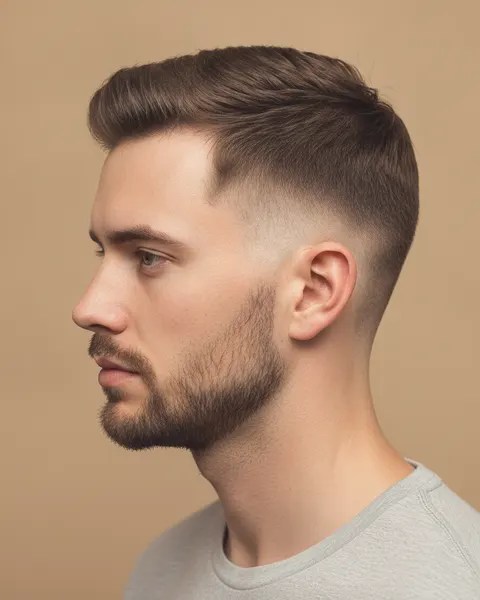
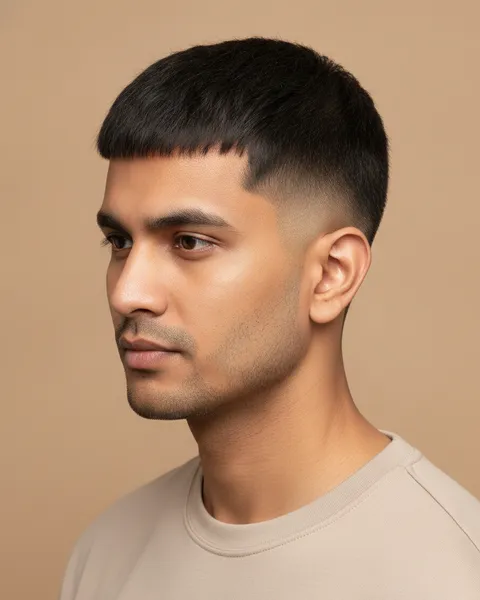
Style cards: diverse people in all 30 photos, 8 new styles for textured hair
Photos remade (AI, fictional people) with a mix of Black, South Asian, East Asian, North African,
Middle Eastern, mixed and white people, men and women; nail photos with a range of skin tones.
New cards (also try-on presets): Fade com caracóis, 360 waves, Twists, Cornrows, Box braids, Locs,
Afro, Silk press.

Claude-Session: https://claude.ai/code/session_01Q6BZR4qgaXW5S444pfo3aL

diff --git a/app/src/lib/styleCatalog.ts b/app/src/lib/styleCatalog.ts
@@ -212,6 +212,63 @@ export const STYLE_CARDS: StyleCard[] = [
       'Aparar o bigode e terminar com óleo e bálsamo.',
     ],
   },
+  {
+    id: 'fade-com-caracois', name: 'Fade com caracóis', types: BARBER, minutes: 45,
+    about: 'Caracóis definidos em cima, com um degradé que desce por trás da orelha (drop fade).',
+    suits: 'Cabelo encaracolado ou crespo que quer manter o volume em cima com as laterais limpas.',
+    upkeep: '2 a 3 semanas',
+    tools: 'Máquina com pentes 0 a 3, máquina de acabamentos, tesoura, pente garfo, creme ou gel para caracóis.',
+    steps: [
+      'Ver o cabelo seco: o caracol encolhe, por isso combinar o comprimento de cima com ele seco.',
+      'Marcar a linha do degradé, que desce por trás da orelha até à nuca.',
+      'Cortar as laterais do pente mais curto para o mais comprido, esbatendo em movimentos curtos.',
+      'Aparar os caracóis de cima à tesoura, caracol a caracol, para manter a forma redonda.',
+      'Fazer o contorno com a máquina de acabamentos.',
+      'Hidratar e definir os caracóis com creme, sem pentear a seco.',
+    ],
+  },
+  {
+    id: '360-waves', name: '360 waves', types: BARBER, minutes: 30,
+    about: 'Cabelo muito curto escovado até formar ondas iguais à volta de toda a cabeça, com contorno marcado.',
+    suits: 'Cabelo crespo, com paciência para escovar todos os dias e usar durag à noite.',
+    upkeep: '2 semanas',
+    tools: 'Máquina com pente 1 ou 1,5, máquina de acabamentos, escova de cerdas duras, pomada para ondas, durag.',
+    steps: [
+      'Combinar o comprimento: curto e igual em toda a cabeça, sempre no sentido do crescimento.',
+      'Cortar com o pente escolhido a favor do pelo, para não estragar o padrão das ondas.',
+      'Fazer o contorno (line-up) na testa, têmporas e nuca.',
+      'Escovar do topo para fora, em todas as direções, com pomada.',
+      'Explicar ao cliente a rotina: escovar todos os dias e dormir com durag.',
+    ],
+  },
+  {
+    id: 'twists', name: 'Twists', types: ['barbearia', 'cabeleireiro'], minutes: 90,
+    about: 'Torcidos de duas mechas em cabelo natural, curtos a médios, muitas vezes com as laterais em degradé.',
+    suits: 'Cabelo crespo com pelo menos 5 cm em cima. Bom passo para quem quer chegar a locs.',
+    upkeep: '2 a 4 semanas',
+    tools: 'Pente de dentes largos, pente de cauda, creme de torcer ou manteiga, molas, máquina para as laterais.',
+    steps: [
+      'Lavar e hidratar o cabelo, desembaraçar com pente de dentes largos.',
+      'Se levar degradé, cortar primeiro as laterais.',
+      'Dividir o topo em secções quadradas do mesmo tamanho.',
+      'Aplicar creme em cada secção, dividir em duas mechas e torcer uma sobre a outra até às pontas.',
+      'Selar as pontas com um pouco de produto e deixar secar sem mexer.',
+    ],
+  },
+  {
+    id: 'cornrows', name: 'Cornrows', types: ['barbearia', 'cabeleireiro'], minutes: 90,
+    about: 'Tranças rentes ao couro cabeludo (tranças nagô), em linhas retas para trás ou com desenho.',
+    suits: 'Cabelo crespo ou encaracolado com pelo menos 5 cm. Prático e dura várias semanas.',
+    upkeep: '2 a 4 semanas',
+    tools: 'Pente de cauda, pente de dentes largos, gel de bordas, creme ou óleo leve, molas, elásticos pequenos.',
+    steps: [
+      'Lavar, hidratar e desembaraçar. Esticar o cabelo com o secador se estiver muito encolhido.',
+      'Desenhar as riscas com o pente de cauda, retas e do mesmo tamanho.',
+      'Trançar cada linha por baixo, apanhando cabelo a cada passagem, rente ao couro.',
+      'Manter a tensão firme mas sem puxar as bordas.',
+      'Prender as pontas e acabar as bordas com gel.',
+    ],
+  },
   // Cabeleireiro -------------------------------------------------------------
   {
     id: 'bob', name: 'Bob', types: HAIR, minutes: 45,
@@ -323,6 +380,62 @@ export const STYLE_CARDS: StyleCard[] = [
       'Respeitar o tempo de pausa.',
       'Emulsionar, enxaguar e aplicar o tratamento pós-cor.',
       'Secar e mostrar o brilho à luz.',
+    ],
+  },
+  {
+    id: 'box-braids', name: 'Box braids', types: HAIR, minutes: 300,
+    about: 'Tranças soltas em secções quadradas, com fibra, compridas e leves.',
+    suits: 'Cabelo crespo ou encaracolado. Protege o cabelo e dá meses sem pentear.',
+    upkeep: '6 a 8 semanas (não mais de 8)',
+    tools: 'Fibra para tranças, pente de cauda, molas, gel de bordas, água quente para selar as pontas.',
+    steps: [
+      'Combinar comprimento, espessura e cor da fibra. Lavar, hidratar e esticar o cabelo.',
+      'Dividir em secções quadradas iguais, da nuca para cima.',
+      'Juntar a fibra na raiz sem apertar e trançar até às pontas.',
+      'Selar as pontas em água quente.',
+      'Acabar as bordas com gel e explicar ao cliente como lavar e dormir com as tranças.',
+    ],
+  },
+  {
+    id: 'locs', name: 'Locs', types: ['cabeleireiro', 'barbearia'], minutes: 120,
+    about: 'Locs (dreadlocks) feitos e mantidos no salão: raízes arrumadas e locs do mesmo tamanho.',
+    suits: 'Cabelo crespo ou encaracolado, para quem quer um estilo de longo prazo.',
+    upkeep: 'Manutenção da raiz a cada 4 a 8 semanas',
+    tools: 'Pente de cauda, gancho ou agulha de crochet, gel ou cera leve para locs, molas, secador de capacete.',
+    steps: [
+      'Lavar com champô sem resíduos e secar bem.',
+      'Separar as secções de cada loc e limpar as divisões.',
+      'Torcer a raiz nova (palm roll) ou apertar com o gancho, conforme o método do cliente.',
+      'Juntar locs finos ou reparar os que estão a abrir.',
+      'Secar por completo debaixo do secador, para não ganhar cheiro.',
+    ],
+  },
+  {
+    id: 'afro', name: 'Afro', types: HAIR, minutes: 60,
+    about: 'Cabelo natural crespo com forma redonda e igual, definido e com volume.',
+    suits: 'Cabelo crespo natural que quer mostrar o volume e a textura.',
+    upkeep: '8 a 12 semanas',
+    tools: 'Tesoura, pente garfo (afro pick), creme sem enxaguar, óleo leve, secador com difusor.',
+    steps: [
+      'Lavar e hidratar, desembaraçar com os dedos e pente de dentes largos.',
+      'Secar com difusor ou esticar ligeiramente para ver o comprimento real.',
+      'Pentear para fora com o pente garfo e cortar em forma redonda, a olhar de frente e de lado.',
+      'Acertar as pontas soltas e igualar os dois lados.',
+      'Definir com creme e dar volume com o pente garfo na raiz.',
+    ],
+  },
+  {
+    id: 'silk-press', name: 'Silk press', types: HAIR, minutes: 120,
+    about: 'Cabelo natural alisado só com calor, bem liso, sedoso e com movimento, sem químicos.',
+    suits: 'Cabelo crespo ou encaracolado saudável que quer ficar liso por uns tempos sem relaxante.',
+    upkeep: '2 a 3 semanas (volta ao natural ao lavar)',
+    tools: 'Champô e máscara hidratante, protetor térmico, secador com bico, pente de dentes finos, prancha de titânio.',
+    steps: [
+      'Lavar e fazer uma máscara hidratante profunda.',
+      'Aplicar protetor térmico e secar com bico, esticando secção a secção.',
+      'Passar a prancha em secções finas, uma vez, com o pente à frente (chase method).',
+      'Cortar as pontas espigadas no fim, já com o cabelo liso.',
+      'Acabar com um pouco de sérum. Explicar ao cliente como dormir e evitar humidade.',
     ],
   },
   // Unhas -------------------------------------------------------------------

diff --git a/app/src/lib/styles.ts b/app/src/lib/styles.ts
@@ -9,10 +9,12 @@ export const STYLE_PRESETS: Partial<Record<SalonType, string[]>> = {
     'Low fade', 'Mid fade', 'High fade', 'Skin fade', 'Taper fade', 'Buzz cut', 'Crew cut', 'French crop',
     'Corte à tesoura', 'Undercut', 'Pompadour', 'Quiff', 'Risca ao lado', 'Mullet moderno',
     'Barba curta desenhada', 'Barba cheia aparada', 'Sem barba',
+    'Fade com caracóis', '360 waves', 'Twists', 'Cornrows', 'Locs',
   ],
   cabeleireiro: [
     'Bob', 'Long bob', 'Corte em camadas', 'Franja cortina', 'Pixie', 'Corte reto pelos ombros',
     'Balayage', 'Madeixas loiras', 'Loiro', 'Castanho chocolate', 'Ruivo acobreado', 'Preto', 'Ondulado', 'Liso',
+    'Box braids', 'Twists', 'Cornrows', 'Locs', 'Afro', 'Silk press',
   ],
   unhas: ['Gel nude', 'Francesa', 'Vermelho clássico', 'Unhas amendoadas', 'Unhas quadradas', 'Nail art minimalista'],
   sobrancelhas: ['Sobrancelhas definidas', 'Sobrancelhas naturais', 'Laminação de sobrancelhas', 'Extensão de pestanas'],
